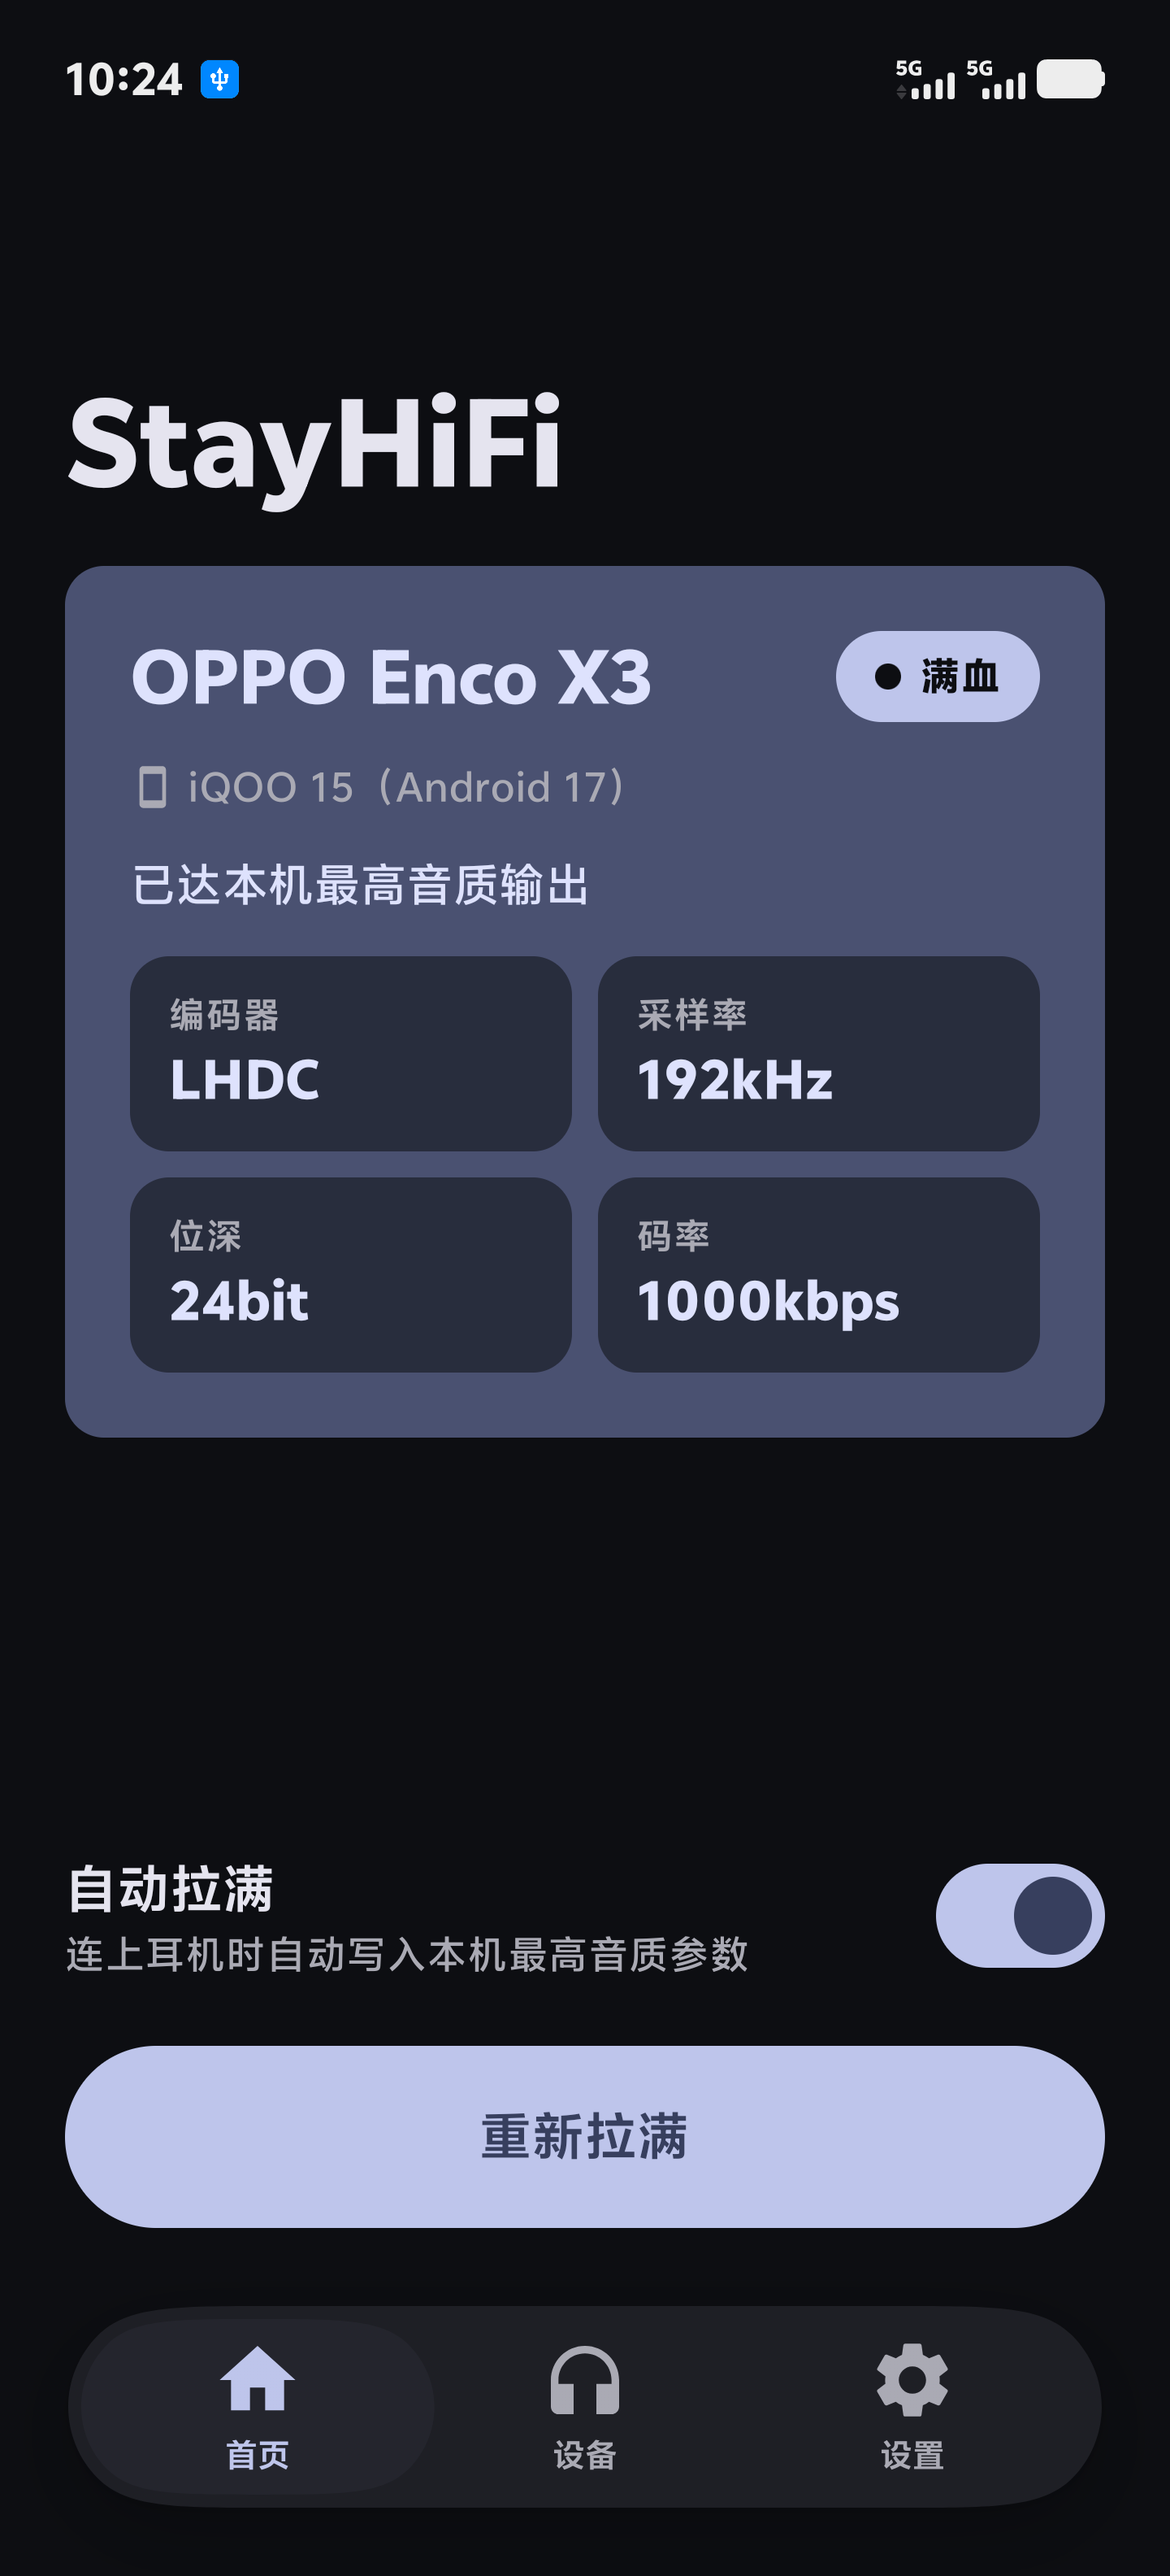
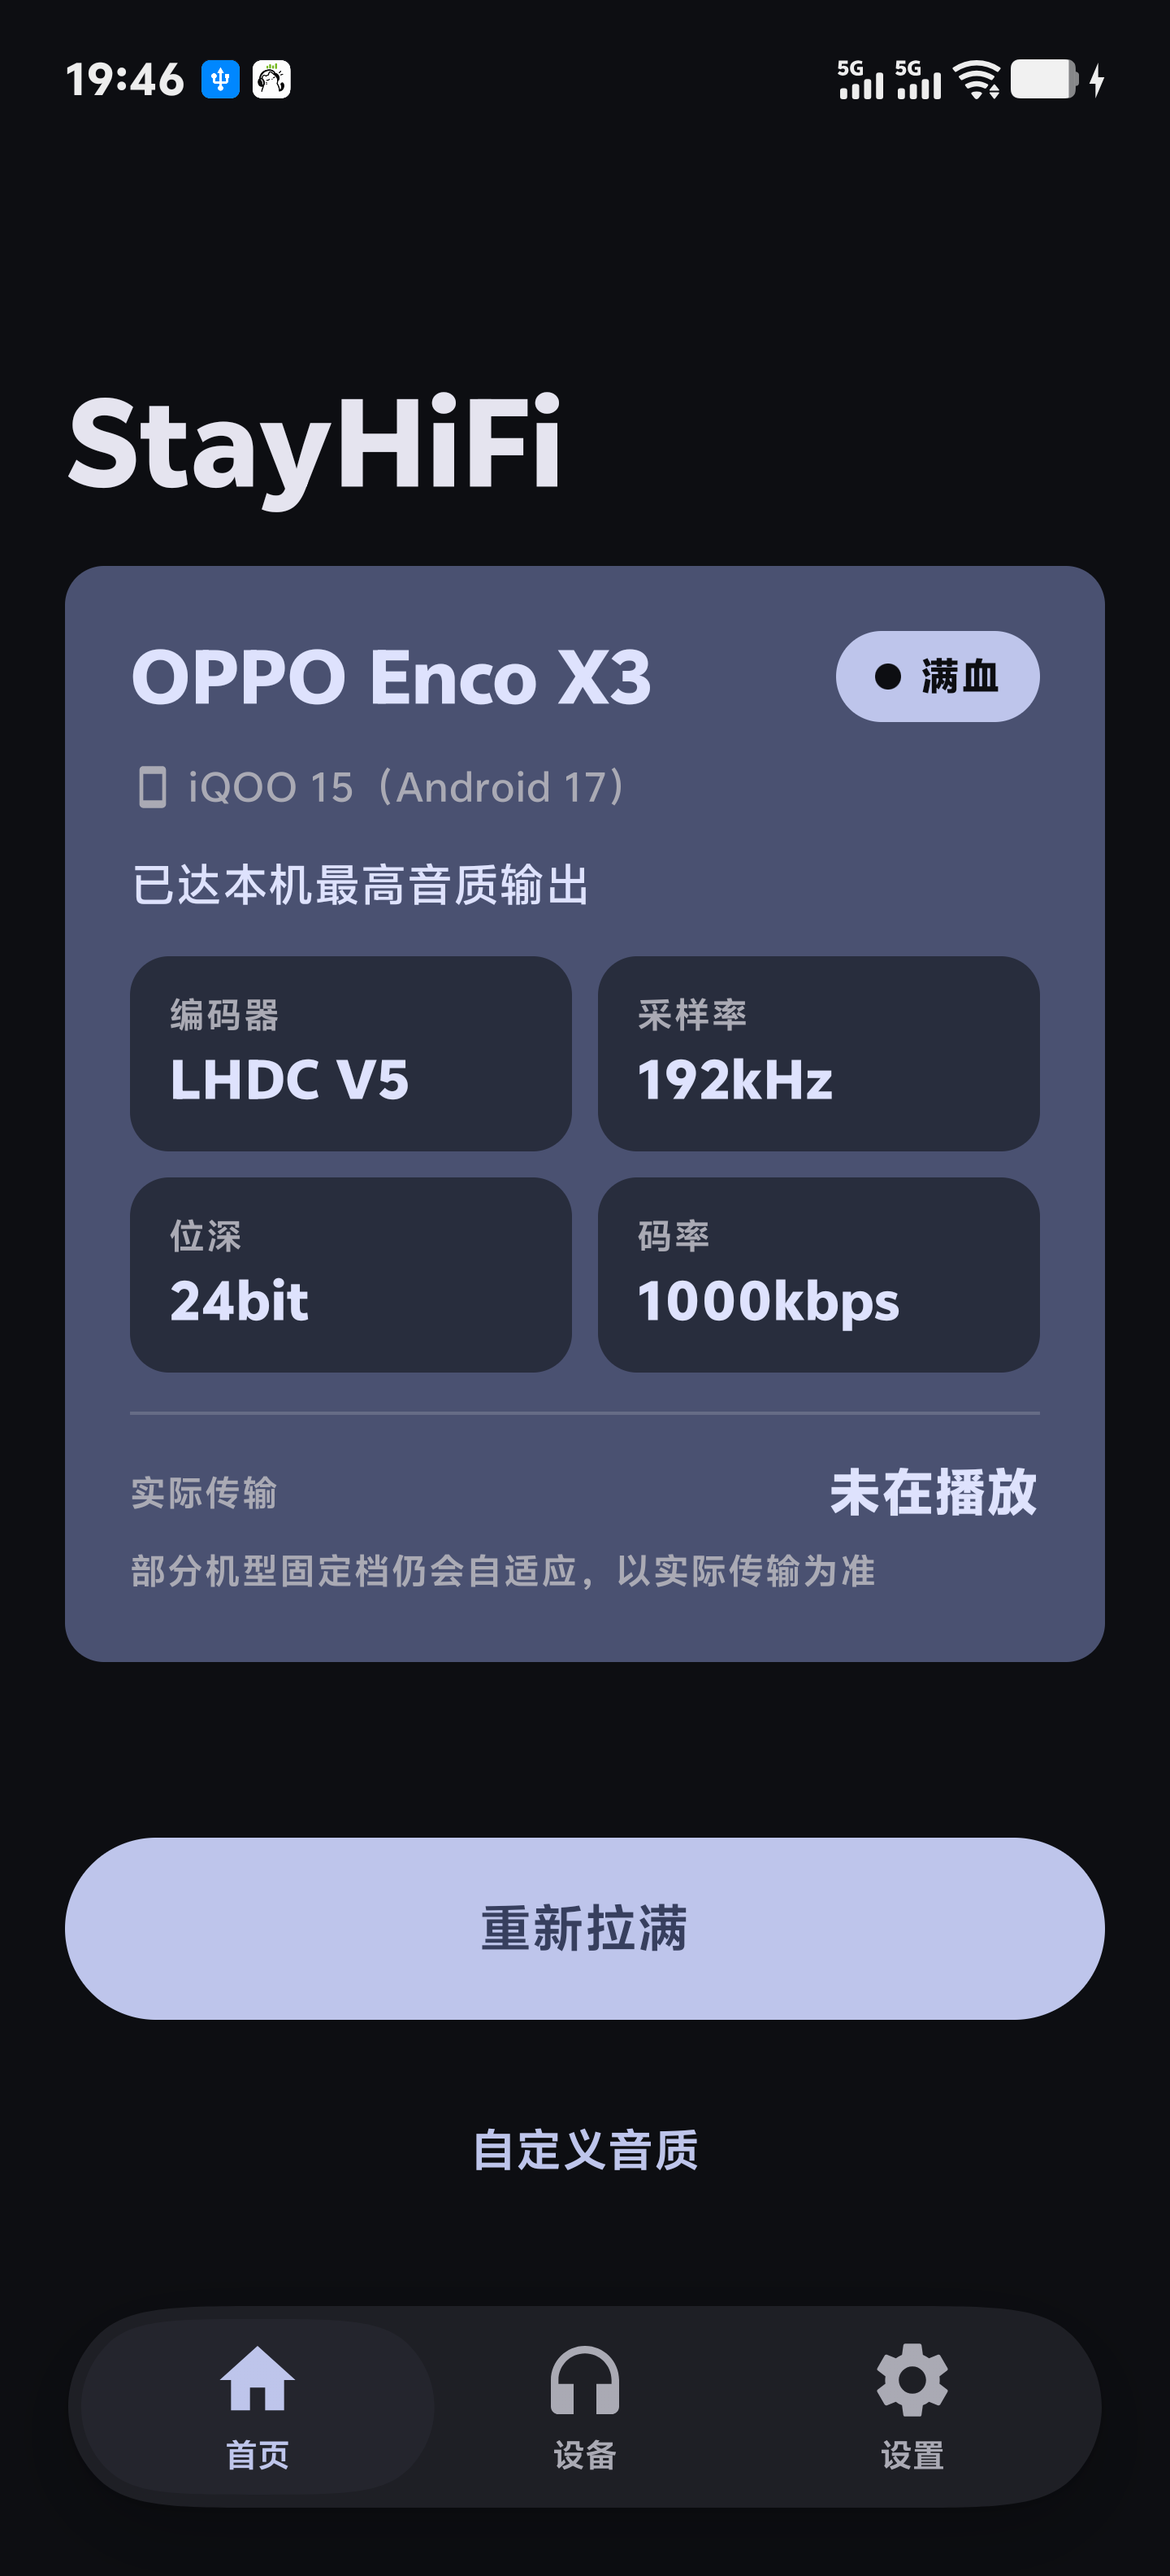
Docs: 更新 1.2.2 界面与自定义音质截图

diff --git a/README.en.md b/README.en.md
@@ -23,6 +23,7 @@ StayHiFi takes that chore off your plate: the instant a headset connects, it wri
   <img src="docs/assets/screenshots/01-home.png" width="260" alt="Home status card">
   <img src="docs/assets/screenshots/02-devices.png" width="260" alt="Devices page">
   <img src="docs/assets/screenshots/03-settings.png" width="260" alt="Settings page">
+  <img src="docs/assets/screenshots/04-custom.png" width="260" alt="Custom Quality parameters">
 </p>
 
 ## Features
